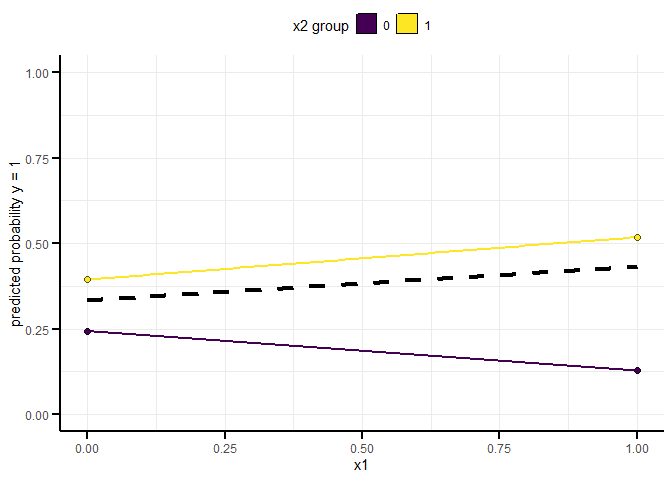
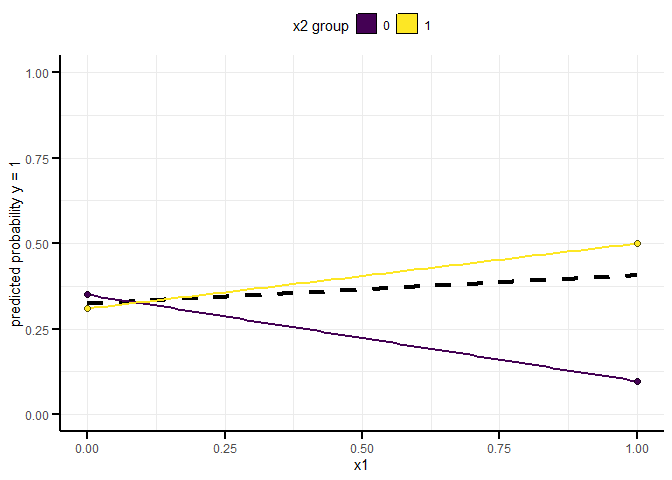
added seeds

diff --git a/README.md b/README.md
@@ -43,7 +43,9 @@ know the population-level correlation between our predictors (x1 and x2)
 and our outcome, we have a smallest effect size of interest in mind for
 our interaction effect size, and our sample size is already set (maybe
 we are conducting secondary data analysis). Power can be determined with
-a single command:
+a single command. **NB** In all these examples we use 1000 simulations
+for speed (`n.iter = 1000`), but for robust results we recommend 10,000
+simulations (`n.iter = 10000`).
 
 ``` r
 library(InteractionPoweR)
@@ -56,20 +58,21 @@ test_power<-power_interaction(
   r.x1x2.y = .15,           # interaction effect to test (correlation between x1*x2 and y)
   r.x1.y = .2,              # correlation between x1 and y
   r.x2.y = .1,              # correlation between x2 and y
-  r.x1.x2 = .2              # correlation between x1 and x2
+  r.x1.x2 = .2,             # correlation between x1 and x2
+  seed = 581827             # seed, for reproducibility - this generally should not be set
 )
 #> [1] "Checking for errors in inputs..."
 #> [1] "Performing 1000 simulations"
 toc()
-#> 16.27 sec elapsed
+#> 16.42 sec elapsed
 test_power
 #> # A tibble: 1 x 1
 #>     pwr
 #>   <dbl>
-#> 1 0.796
+#> 1 0.809
 ```
 
-We see that we have \~80% power to detect the effect of interest.
+We see that we have 80.9% power to detect the effect of interest.
 
 It can be hard to know what interaction correlations mean in terms of
 how the data will look. To help users interpret interaction effects, we
@@ -85,10 +88,13 @@ plot_interaction(data = sample_data,q = 2)
 <img src="man/figures/README-example2-1.png" width="100%" />
 
 The `test_interaction()` function can be used to see the results of the
-regression `y ~ x1 + x2 + x1x2`, the correlation between the variables,
-and find the simple slopes from the plot above. In this case, the ‘lower
-slope’, X2 Group = 1, is roughly 0, while the ‘upper slope’, X2 Group =
-2, is 0.38.
+regression `y ~ x1 + x2 + x1x2`. It also returns a variety of statistics
+that can be useful in understanding the interaction, including the
+adjusted *R*<sup>2</sup>, the 95% confidence-interval of the
+interaction, the cross-over point (the value of x1 where the simple
+slopes intersect), the “shape” of the interaction (1 = knock-out, \<1 =
+attenuated, \>1 = cross-over), the simple-slopes, the correlation
+between the variables.
 
 ``` r
 test_interaction(data = sample_data,q = 2)
@@ -98,12 +104,20 @@ test_interaction(data = sample_data,q = 2)
 #> x2   0.1356407 0.05165265 2.626016 9.022851e-03
 #> x1x2 0.2129386 0.05001033 4.257892 2.661829e-05
 #> 
-#> $x1x2.r2
+#> $x1x2.adjusted.r2
 #> [1] 0.04391331
 #> 
 #> $x1x2.confint
-#>           [,1]      [,2]
-#> [1,] 0.1145761 0.3113011
+#>   x1x2_95confint_2.5 x1x2_95confint_97.5
+#> 1          0.1145761           0.3113011
+#> 
+#> $interaction.shape
+#>   crossover.point    shape
+#> 1      -0.6369945 1.127275
+#> 
+#> $simple.slopes
+#>    lower.slope upper.slope
+#> x2  0.00222888   0.3766329
 #> 
 #> $correlation
 #>           cor v1   v2
@@ -113,10 +127,6 @@ test_interaction(data = sample_data,q = 2)
 #> 13 0.03519020 x1 x1x2
 #> 14 0.07511716 x2 x1x2
 #> 15 0.23245767  y x1x2
-#> 
-#> $simple.slopes
-#>    lower.slope upper.slope
-#> x1  0.00222888   0.3766329
 ```
 
 ### Example 2
@@ -139,12 +149,13 @@ test_power<-power_interaction(
   r.x1x2.y = c(.18,.2,.22), # range of interaction effects to test
   r.x1.y = .2,              # correlation between x1 and y
   r.x2.y = .1,              # correlation between x2 and y
-  r.x1.x2 = .2              # correlation between x1 and x2
+  r.x1.x2 = .2,             # correlation between x1 and x2
+  seed = 290115             # seed, for reproducibility
 )
 #> [1] "Checking for errors in inputs..."
 #> [1] "Performing 60000 simulations"
 toc()
-#> 278.41 sec elapsed
+#> 264.2 sec elapsed
 ```
 
 The results of this analysis can be hard to interpret just by looking at
@@ -164,13 +175,13 @@ power_curve for each interaction effect size crosses our 90% line:
 ``` r
 power_estimate(test_power,power_target = .9,x="N")
 #>   r.x1x2.y estimate
-#> 1     0.18 307.1685
-#> 2     0.20 243.3279
-#> 3     0.22 202.9760
+#> 1     0.18 314.0026
+#> 2     0.20 244.6019
+#> 3     0.22 205.0056
 ```
 
 We can see that depending on the specific effect size we hope to detect,
-we would need between N\~200 and N\~300 participants.
+we would need between N\~205 and N\~314 participants.
 
 ### Example 3
 
@@ -196,12 +207,13 @@ test_power<-power_interaction(
   r.x1.y = .2,              # correlation between x1 and y
   r.x2.y = .1,              # correlation between x2 and y
   r.x1.x2 = .2,             # correlation between x1 and x2
- detailed_results = T       # detailed results have more information on the simulations
+ detailed_results = T,      # detailed results have more information on the simulations
+ seed = 876924              # seed, for reproducibility
 )
 #> [1] "Checking for errors in inputs..."
 #> [1] "Performing 14000 simulations"
 toc()
-#> 94.82 sec elapsed
+#> 90.41 sec elapsed
 ```
 
 As with the previous example, the results of this analysis can be hard
@@ -218,7 +230,7 @@ power_curve for each interaction effect size crosses our 90% line:
 
 ``` r
 power_estimate(test_power,power_target = .9,x = "r.x1x2.y")
-#> [1] 0.149134
+#> [1] 0.1518392
 ```
 
 We can use the function `plot_simple_slope()` to visualize the
@@ -258,12 +270,13 @@ test_power<-power_interaction(
   r.x2.y = .1,              # correlation between x2 and y
   r.x1.x2 = .2,             # correlation between x1 and x2
   rel.x1 = seq(.4,1,.1),    # x1 reliability
-  rel.x2 = seq(.4,1,.2)     # x2 reliability
+  rel.x2 = seq(.4,1,.2),    # x2 reliability
+  seed = 721507             # seed, for repoducibility
 )
 #> [1] "Checking for errors in inputs..."
 #> [1] "Performing 28000 simulations"
 toc()
-#> 176.02 sec elapsed
+#> 170.65 sec elapsed
 plot_power_curve(test_power,power_target = .9)
 ```
 
@@ -309,14 +322,15 @@ test_power<-power_interaction(
   r.x2.y = .1,              # correlation between x2 and y
   r.x1.x2 = .2           ,  # correlation between x1 and x2
   skew.x1 = seq(0,2,by=.25),# x1 skew
-  adjust.correlations = T   # Default, adjust correlations
+  adjust.correlations = T, # Default, adjust correlations
+  seed = 435380
 
 )
 #> [1] "Checking for errors in inputs..."
 #> [1] "Adjusting correlations for variable transformations..."
 #> [1] "Performing 9000 simulations"
 toc()
-#> 82.54 sec elapsed
+#> 80.02 sec elapsed
 plot_power_curve(test_power,power_target = .9)
 ```
 
@@ -334,7 +348,7 @@ of a single data set where all variables are binary and x2 & y are
 skewed (the x1 probability of 0.5 corresponds to a skew of 0).
 
 ``` r
-set.seed(2021)
+set.seed(2022)
 sample_data<-generate_interaction(N=350,
                                   r.x1x2.y =.15,
                                   r.x1.y = .1, 
@@ -357,27 +371,31 @@ plot_interaction(data = sample_data)
 test_interaction(data = sample_data)
 #> $linear.model
 #>        Estimate Std. Error   z value     Pr(>|z|)
-#> x1   0.05167397  0.1254139 0.4120275 6.803193e-01
-#> x2   0.62716077  0.1425995 4.3980560 1.092248e-05
-#> x1x2 0.29777864  0.1424952 2.0897455 3.664067e-02
+#> x1   0.05346554  0.1276503 0.4188439 0.6753302251
+#> x2   0.46958487  0.1479850 3.1731915 0.0015077302
+#> x1x2 0.54681794  0.1474124 3.7094421 0.0002077165
 #> 
-#> $x1x2.r2
-#> [1] 0.01080814
+#> $x1x2.adjusted.r2
+#> [1] 0.03750483
 #> 
 #> $x1x2.confint
-#>            [,1]      [,2]
-#> [1,] 0.02966431 0.5959014
+#>   x1x2_95confint_2.5 x1x2_95confint_97.5
+#> 1          0.2745436           0.8631236
 #> 
-#> $correlation
-#>             cor v1   v2
-#> 5   0.195113099 x1   x2
-#> 9   0.101302720 x1    y
-#> 10  0.250452591 x2    y
-#> 13 -0.002271454 x1 x1x2
-#> 14 -0.161866537 x2 x1x2
-#> 15  0.069639076  y x1x2
+#> $interaction.shape
+#>   crossover.point    shape
+#> 1      -0.8587591 10.22748
 #> 
 #> $simple.slopes
 #>    lower.slope upper.slope
-#> x1  -0.3904739   0.2516496
+#> x1   -0.803889   0.4012278
+#> 
+#> $correlation
+#>             cor v1   v2
+#> 5   0.127097034 x1   x2
+#> 9   0.086243416 x1    y
+#> 10  0.156288349 x2    y
+#> 13 -0.002924991 x1 x1x2
+#> 14 -0.119419576 x2 x1x2
+#> 15  0.186003277  y x1x2
 ```
